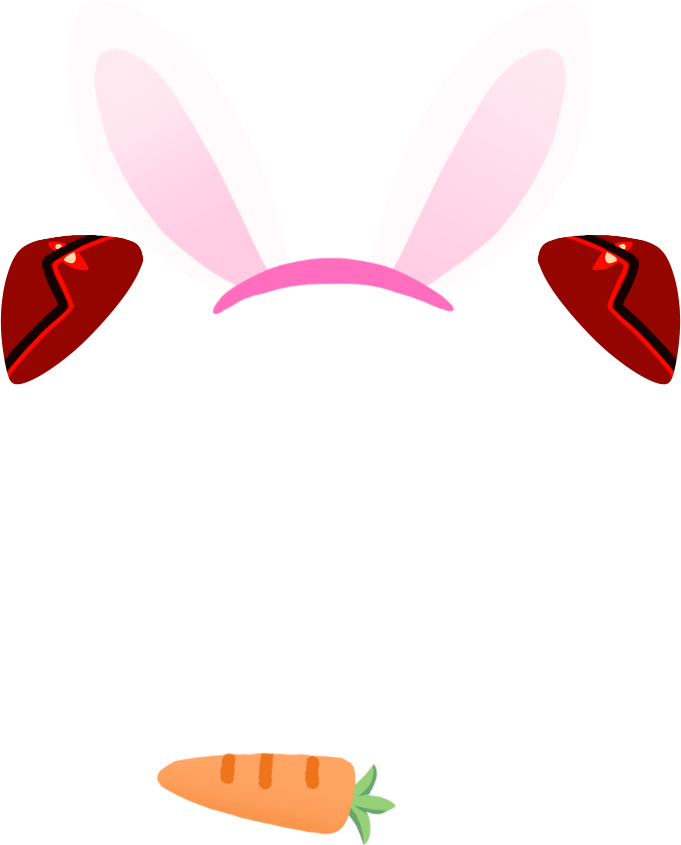
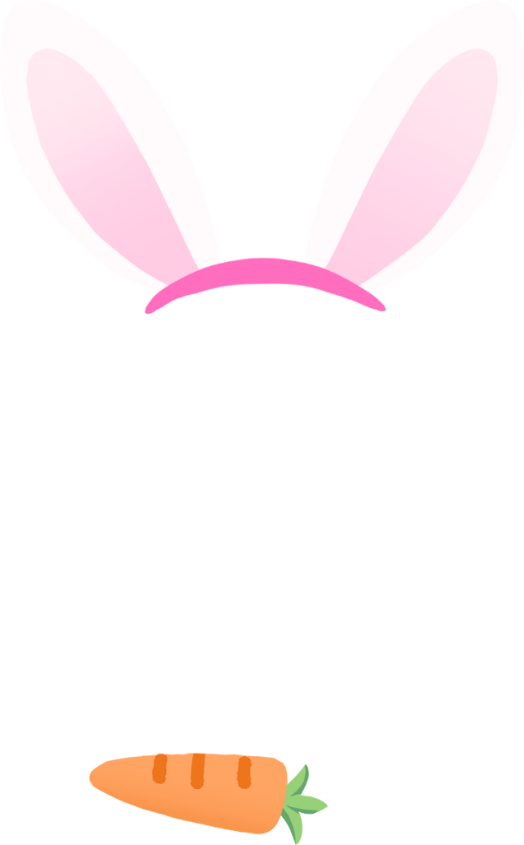
update v1787692644

Changed region(s): [[0.5191, 0.0615, 1.0, 0.4615], [0.0, 0.1231, 0.3969, 0.4615], [0.1527, 0.8923, 0.6107, 1.0]]

diff --git a/mascot.py b/mascot.py
@@ -18234,11 +18234,11 @@ class Mascot:
             h9 = float(sz9[1]) * self.s
         except Exception:
             return
-        # **주변을 번갈아** — 왼쪽·오른쪽·위를 돌아가며, 한 번에 두세 개를
-        # 박자를 어긋내 뿅뿅 (요청: 작게 여러 개).
+        # **주변을 번갈아** — 왼쪽·오른쪽·위를 돌아가며 **한 번에 하나씩**
+        # (요청 — 여러 개를 한꺼번에 내면 겹쳐 지저분하다).
         side9 = getattr(self, "_cat_heart_side", 0)
         self._cat_heart_side = (side9 + 1) % 3
-        for j9 in range(random.randint(2, 3)):
+        for j9 in range(1):
             if side9 == 0:              # 왼쪽 곁
                 x = bx9 - w9 * random.uniform(0.05, 0.28)
                 y = by9 + yo + h9 * random.uniform(0.1, 0.7)
@@ -18248,8 +18248,6 @@ class Mascot:
             else:                       # 머리 위
                 x = bx9 + w9 * random.uniform(0.2, 0.8)
                 y = by9 + yo - h9 * random.uniform(0.0, 0.25)
-            # 자리·속도·수명을 제각각 주면 같은 박자에 태어나도 흩어져
-            # '번갈아 뿅뿅'으로 보인다.
             life = random.randint(24, 38)
             self.notes.append([x, y, random.uniform(-0.35, 0.35),
                                random.uniform(0.7, 1.15),
